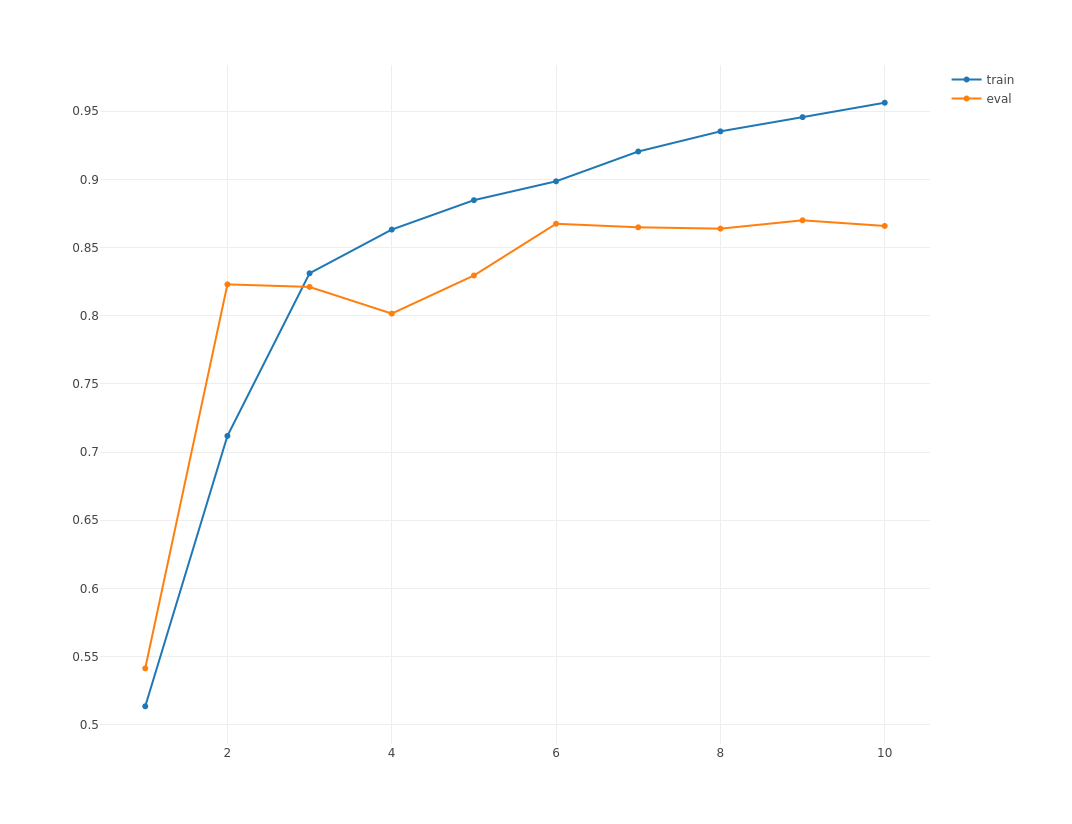
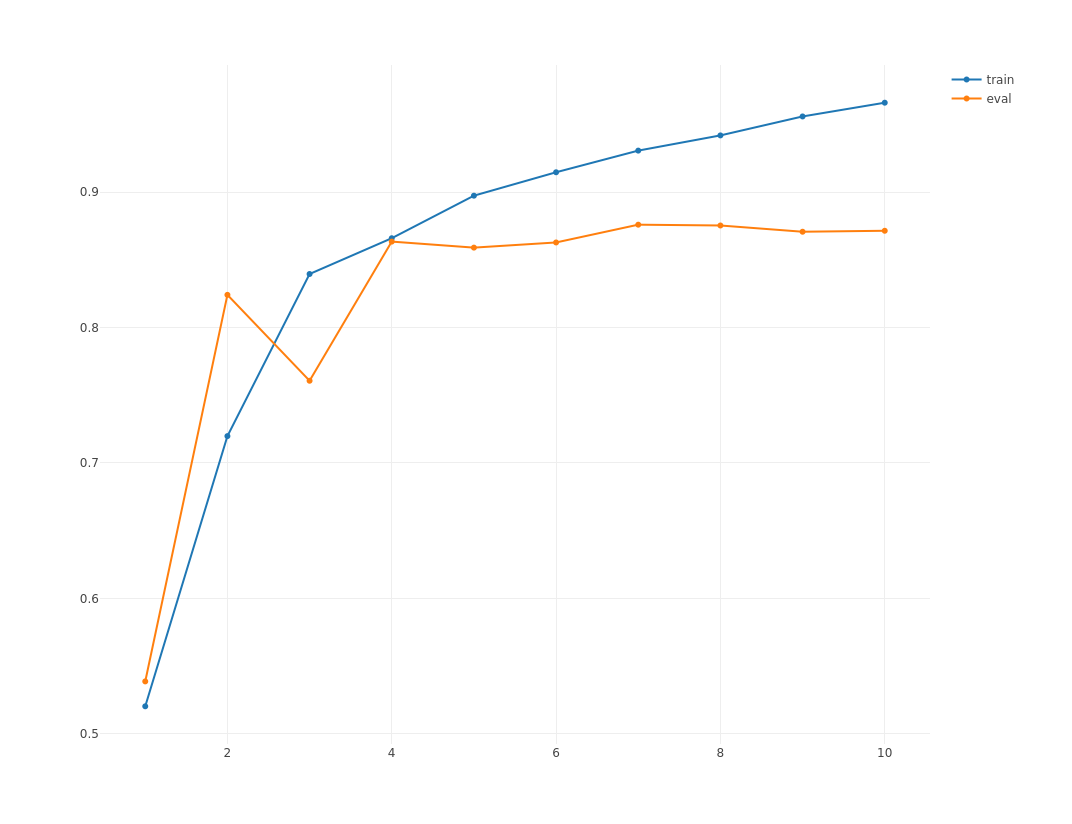
simplify inference

diff --git a/README_one_to_one.md b/README_one_to_one.md
@@ -8,19 +8,19 @@ Example based on [Obama's speech](http://data.mxnet.io/data/char_lstm.zip).
 Load some packages
 
 ``` r
-require("readr")
-require("dplyr")
-require("plotly")
-require("stringr")
-require("stringi")
-require("scales")
-require("mxnet")
+library("readr")
+library("dplyr")
+library("plotly")
+library("stringr")
+library("stringi")
+library("scales")
+library("mxnet")
 ```
 
 Load utility functions
 
 ``` r
-source("mx.io.bucket.iter.nomask.R")
+source("mx.io.bucket.iter.R")
 source("rnn.graph.R")
 source("model.rnn.R")
 source("rnn.infer.R")
@@ -91,11 +91,6 @@ initializer <- mx.init.Xavier(rnd_type = "gaussian", factor_type = "avg", magnit
 optimizer <- mx.opt.create("adadelta", rho = 0.90, eps = 1e-5, wd = 1e-8,
                            clip_gradient = 5, rescale.grad = 1/batch.size)
 
-# optimizer <- mx.opt.create("adam", learning.rate = 0.001, beta1 = 0.9, beta2 = 0.999, epsilon = 1e-8, wd = 1e-5, rescale.grad = 1/batch.size, clip_gradient = 1)
-
-# optimizer <- mx.opt.create("rmsprop", learning.rate = 0.002, gamma1 = 0.95, gamma2 = 0.95,
-#                            wd = 1e-8, clip_gradient=NULL, rescale.grad=1/batch.size)
-
 logger <- mx.metric.logger()
 epoch.end.callback <- mx.callback.log.train.metric(period = 1, logger = logger)
 batch.end.callback <- mx.callback.log.train.metric(period = 50)
@@ -160,12 +155,8 @@ infer_raw <- c("The United States are")
 infer_split <- dic[strsplit(infer_raw, '') %>% unlist]
 infer_length <- length(infer_split)
 
-infer_buckets <- list("21"=list(data=matrix(infer_split, ncol=1), 
-                                label=matrix(infer_split, ncol=1)))
-infer_buckets <- list(buckets = infer_buckets, dic = dic, rev_dic = rev_dic)
-
-infer.data <- mx.io.bucket.iter(buckets = infer_buckets$buckets, batch.size = 1, 
-                                data.mask.element = 0, shuffle = FALSE)
+infer.data <- mx.io.arrayiter(data = matrix(infer_split), label = matrix(infer_split),  
+                              batch.size = 1, shuffle = FALSE)
 ```
 
 ### Inference with most likely term
@@ -196,11 +187,9 @@ pred <- mx.nd.argmax(data = pred_prob, axis = 1, keepdims = T)
 predict <- c(predict, as.numeric(as.array(pred)))
 
 for (i in 1:100) {
-  
-  infer_buckets <- list("1"=list(data=as.matrix(pred), label=as.matrix(pred)))
-  infer_buckets <- list(buckets = infer_buckets, dic = dic, rev_dic = rev_dic)
-  infer.data <- mx.io.bucket.iter(buckets = infer_buckets$buckets, batch.size = 1, 
-                                  data.mask.element = 0, shuffle = FALSE)
+
+  infer.data <- mx.io.arrayiter(data = as.matrix(pred), label = as.matrix(pred),  
+                              batch.size = 1, shuffle = FALSE)
   
   infer <- mx.rnn.infer.buckets.one(infer.data = infer.data, 
                                     symbol = symbol,
@@ -219,7 +208,7 @@ predict_txt <- paste0(rev_dic[as.character(predict)], collapse = "")
 predict_txt_tot <- paste0(infer_raw, predict_txt, collapse = "")
 ```
 
-Generated sequence: The United States are the progress the progress the progress the progress the progress the progress the progress the progr
+Generated sequence: The United States are started the problems that we can be the problems that we can be the problems that we can be the prob
 
 Key ideas appear somewhat overemphasized.
 
@@ -228,18 +217,15 @@ Key ideas appear somewhat overemphasized.
 Noise is now inserted in the predictions by sampling each character based on their modeled probability.
 
 ``` r
-set.seed(4)
+set.seed(44)
 
 infer_raw <- c("The United States are")
 infer_split <- dic[strsplit(infer_raw, '') %>% unlist]
 infer_length <- length(infer_split)
 
-infer_buckets <- list("21"=list(data=matrix(infer_split, ncol=1), 
-                                label=matrix(infer_split, ncol=1)))
-infer_buckets <- list(buckets = infer_buckets, dic = dic, rev_dic = rev_dic)
+infer.data <- mx.io.arrayiter(data = matrix(infer_split), label = matrix(infer_split),  
+                              batch.size = 1, shuffle = FALSE)
 
-infer.data <- mx.io.bucket.iter(buckets = infer_buckets$buckets, batch.size = 1, 
-                                data.mask.element = 0, shuffle = FALSE)
 
 predict <- numeric()
 
@@ -257,10 +243,8 @@ predict <- c(predict, pred)
 
 for (i in 1:100) {
   
-  infer_buckets <- list("1"=list(data=as.matrix(pred), label=as.matrix(pred)))
-  infer_buckets <- list(buckets = infer_buckets, dic = dic, rev_dic = rev_dic)
-  infer.data <- mx.io.bucket.iter(buckets = infer_buckets$buckets, batch.size = 1, 
-                                  data.mask.element = 0, shuffle = FALSE)
+  infer.data <- mx.io.arrayiter(data = as.matrix(pred), label = as.matrix(pred),  
+                              batch.size = 1, shuffle = FALSE)
   
   infer <- mx.rnn.infer.buckets.one(infer.data = infer.data, 
                                     symbol = symbol,
@@ -279,6 +263,6 @@ predict_txt <- paste0(rev_dic[as.character(predict)], collapse = "")
 predict_txt_tot <- paste0(infer_raw, predict_txt, collapse = "")
 ```
 
-Generated sequence: The United States are their numberal year Doi't Movementate Curplomy.They'll good togethering at the just through their mo
+Generated sequence: The United States are and the result the enough being, ank not when we can imaged or roopias for our. She coutderes or the
 
 Now we get a more alembicated political speech.

diff --git a/README.md b/README.md
@@ -8,14 +8,14 @@ Example based on sentiment analysis on the [IMDB data](http://ai.stanford.edu/~a
 Load some packages
 
 ``` r
-require("readr")
-require("dplyr")
-require("plotly")
-require("stringr")
-require("stringi")
-require("AUC")
-require("scales")
-require("mxnet")
+library("readr")
+library("dplyr")
+library("plotly")
+library("stringr")
+library("stringi")
+library("AUC")
+library("scales")
+library("mxnet")
 ```
 
 Load utility functions
@@ -84,7 +84,7 @@ graph_lstm <- rnn.graph(config = "seq-to-one",
                         num.label = 2, 
                         input.size = vocab, 
                         dropout = 0.5,
-                        ignore_label = 0,
+                        ignore_label = -1,
                         masking = T)
 
 graph.viz(graph_lstm, type = "graph", direction = "LR", 
@@ -101,8 +101,8 @@ devices <- mx.gpu(0)
 
 initializer <- mx.init.Xavier(rnd_type = "gaussian", factor_type = "avg", magnitude = 3)
 
-optimizer <- mx.opt.create("rmsprop", learning.rate = 0.001, gamma1 = 0.95, gamma2 = 0.90, wd = 5e-4, 
-                           clip_gradient=NULL, rescale.grad=1/batch.size)
+optimizer <- mx.opt.create("rmsprop", learning.rate = 0.001, gamma1 = 0.95, gamma2 = 0.9, 
+                           wd = 1e-3, clip_gradient = NULL, rescale.grad=1/batch.size)
 
 logger <- mx.metric.logger()
 epoch.end.callback <- mx.callback.log.train.metric(period = 1, logger = logger)
@@ -127,60 +127,12 @@ plotly::export(p, file = "logger_lstm.png")
 
 ![](logger_lstm.png)
 
-GRU model
----------
-
-### Define the architecture
-
-``` r
-graph_gru <- rnn.graph(config = "seq-to-one",
-                        cell.type = "gru", 
-                        num.rnn.layer = 1, 
-                        num.embed = 2, 
-                        num.hidden = 4, 
-                        num.label = 2, 
-                        input.size = vocab, 
-                        dropout = 0.5,
-                        ignore_label = 0,
-                        masking = T)
-```
-
-### Fit the model
-
-``` r
-logger <- mx.metric.logger()
-epoch.end.callback <- mx.callback.log.train.metric(period = 1, logger = logger)
-batch.end.callback <- mx.callback.log.train.metric(period = 50)
-
-model <- mx.rnn.buckets(symbol = graph_gru,
-                        train.data = train.data, 
-                        eval.data = eval.data,
-                        num.round = 10, 
-                        ctx = devices, 
-                        metric = mx.metric.accuracy, 
-                        initializer = initializer, 
-                        optimizer = optimizer, 
-                        batch.end.callback = batch.end.callback, 
-                        epoch.end.callback = epoch.end.callback,
-                        verbose = TRUE)
-
-mx.model.save(model, prefix = "models/model_sentiment_gru", iteration = 10)
-
-p <- plot_ly(x = seq_len(length(logger$train)), y = logger$train, 
-             type = "scatter", mode = "markers+lines", name = "train") %>% 
-  add_trace(y = logger$eval, type = "scatter", mode = "markers+lines", name = "eval")
-
-plotly::export(p, file = "logger_gru.png")
-```
-
-![](logger_gru.png)
-
 Plot word embeddings
 --------------------
 
-Word representation can be visualized by looking at the assigned weights in any of the embedding dimensions. Here, we look simultaneously at the two embeddings learnt in the GRU model.
+Word representation can be visualized by looking at the assigned weights in any of the embedding dimensions. Here, we look simultaneously at the two embeddings learnt in the LSTM model.
 
-![](README_files/figure-markdown_github-ascii_identifiers/unnamed-chunk-8-1.png)
+![](README_files/figure-markdown_github-ascii_identifiers/unnamed-chunk-6-1.png)
 
 Inference on test data
 ----------------------
@@ -212,27 +164,6 @@ roc <- roc(predictions = pred_raw[, 2], labels = factor(label))
 auc <- auc(roc)
 ```
 
-Accuracy: 87.2%
+Accuracy: 87.1%
 
-AUC: 0.9427
-
-### GRU
-
-``` r
-model <- mx.model.load(prefix = "models/model_sentiment_gru", iteration = 10)
-infer <- mx.rnn.infer.buckets(infer.data = test.data, 
-                              model = model,
-                              ctx = ctx)
-
-pred_raw <- t(as.array(infer))
-pred <- max.col(pred_raw, tie = "first") - 1
-label <- unlist(lapply(corpus_bucketed_test$buckets, function(x) x$label))
-
-acc <- sum(label == pred)/length(label)
-roc <- roc(predictions = pred_raw[, 2], labels = factor(label))
-auc <- auc(roc)
-```
-
-Accuracy: 86.5%
-
-AUC: 0.9359
+AUC: 0.9399
